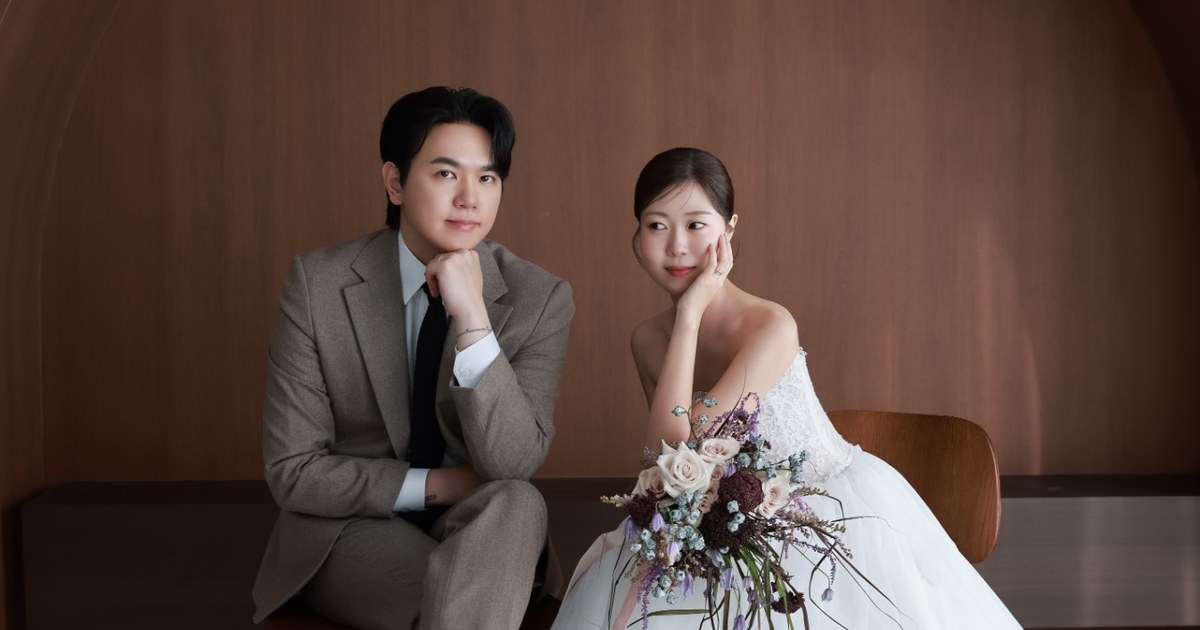
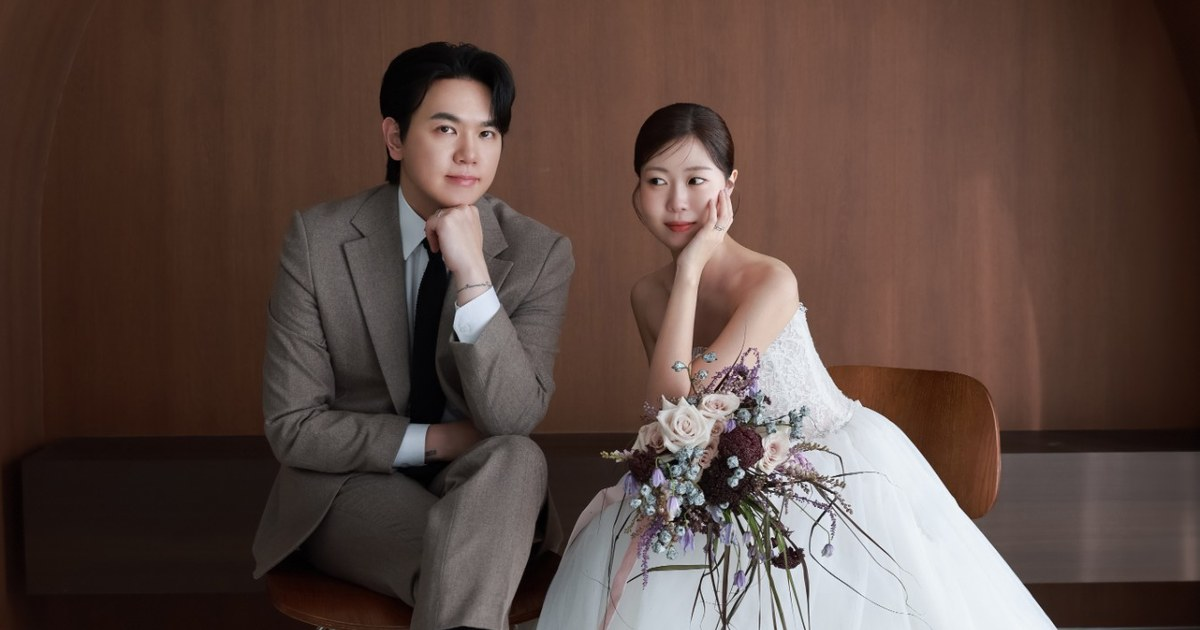
카카오톡 공유 대표이미지의 머리 위 여백 축소
같은 원본에서 자르는 위치를 아래로 내려 머리 위 공간을 줄이고,
og:image 버전 파라미터를 v=4로 올려 캐시 회피.

Claude-Session: https://claude.ai/code/session_01GZp4QFBFFWEpVuaL59Kzhg

Changed region(s): [[0.0, 0.0603, 1.0, 1.0], [0.9867, 0.8444, 1.0, 0.8746], [0.74, 0.9651, 0.7708, 0.9952]]

diff --git a/index.html b/index.html
@@ -11,7 +11,7 @@
 <meta property="og:title" content="박종민 ♥ 장혜린 결혼합니다">
 <meta property="og:description" content="2027년 1월 9일 토요일 오전 11시 · 콘래드 서울 5층 파크볼룸">
 <meta property="og:url" content="https://daramdean.github.io/wedding/">
-<meta property="og:image" content="https://daramdean.github.io/wedding/assets/og/og-kakao.jpg?v=3">
+<meta property="og:image" content="https://daramdean.github.io/wedding/assets/og/og-kakao.jpg?v=4">
 <meta property="og:image:width" content="1200">
 <meta property="og:image:height" content="630">
 <meta property="og:image:alt" content="박종민과 장혜린의 웨딩 사진">
